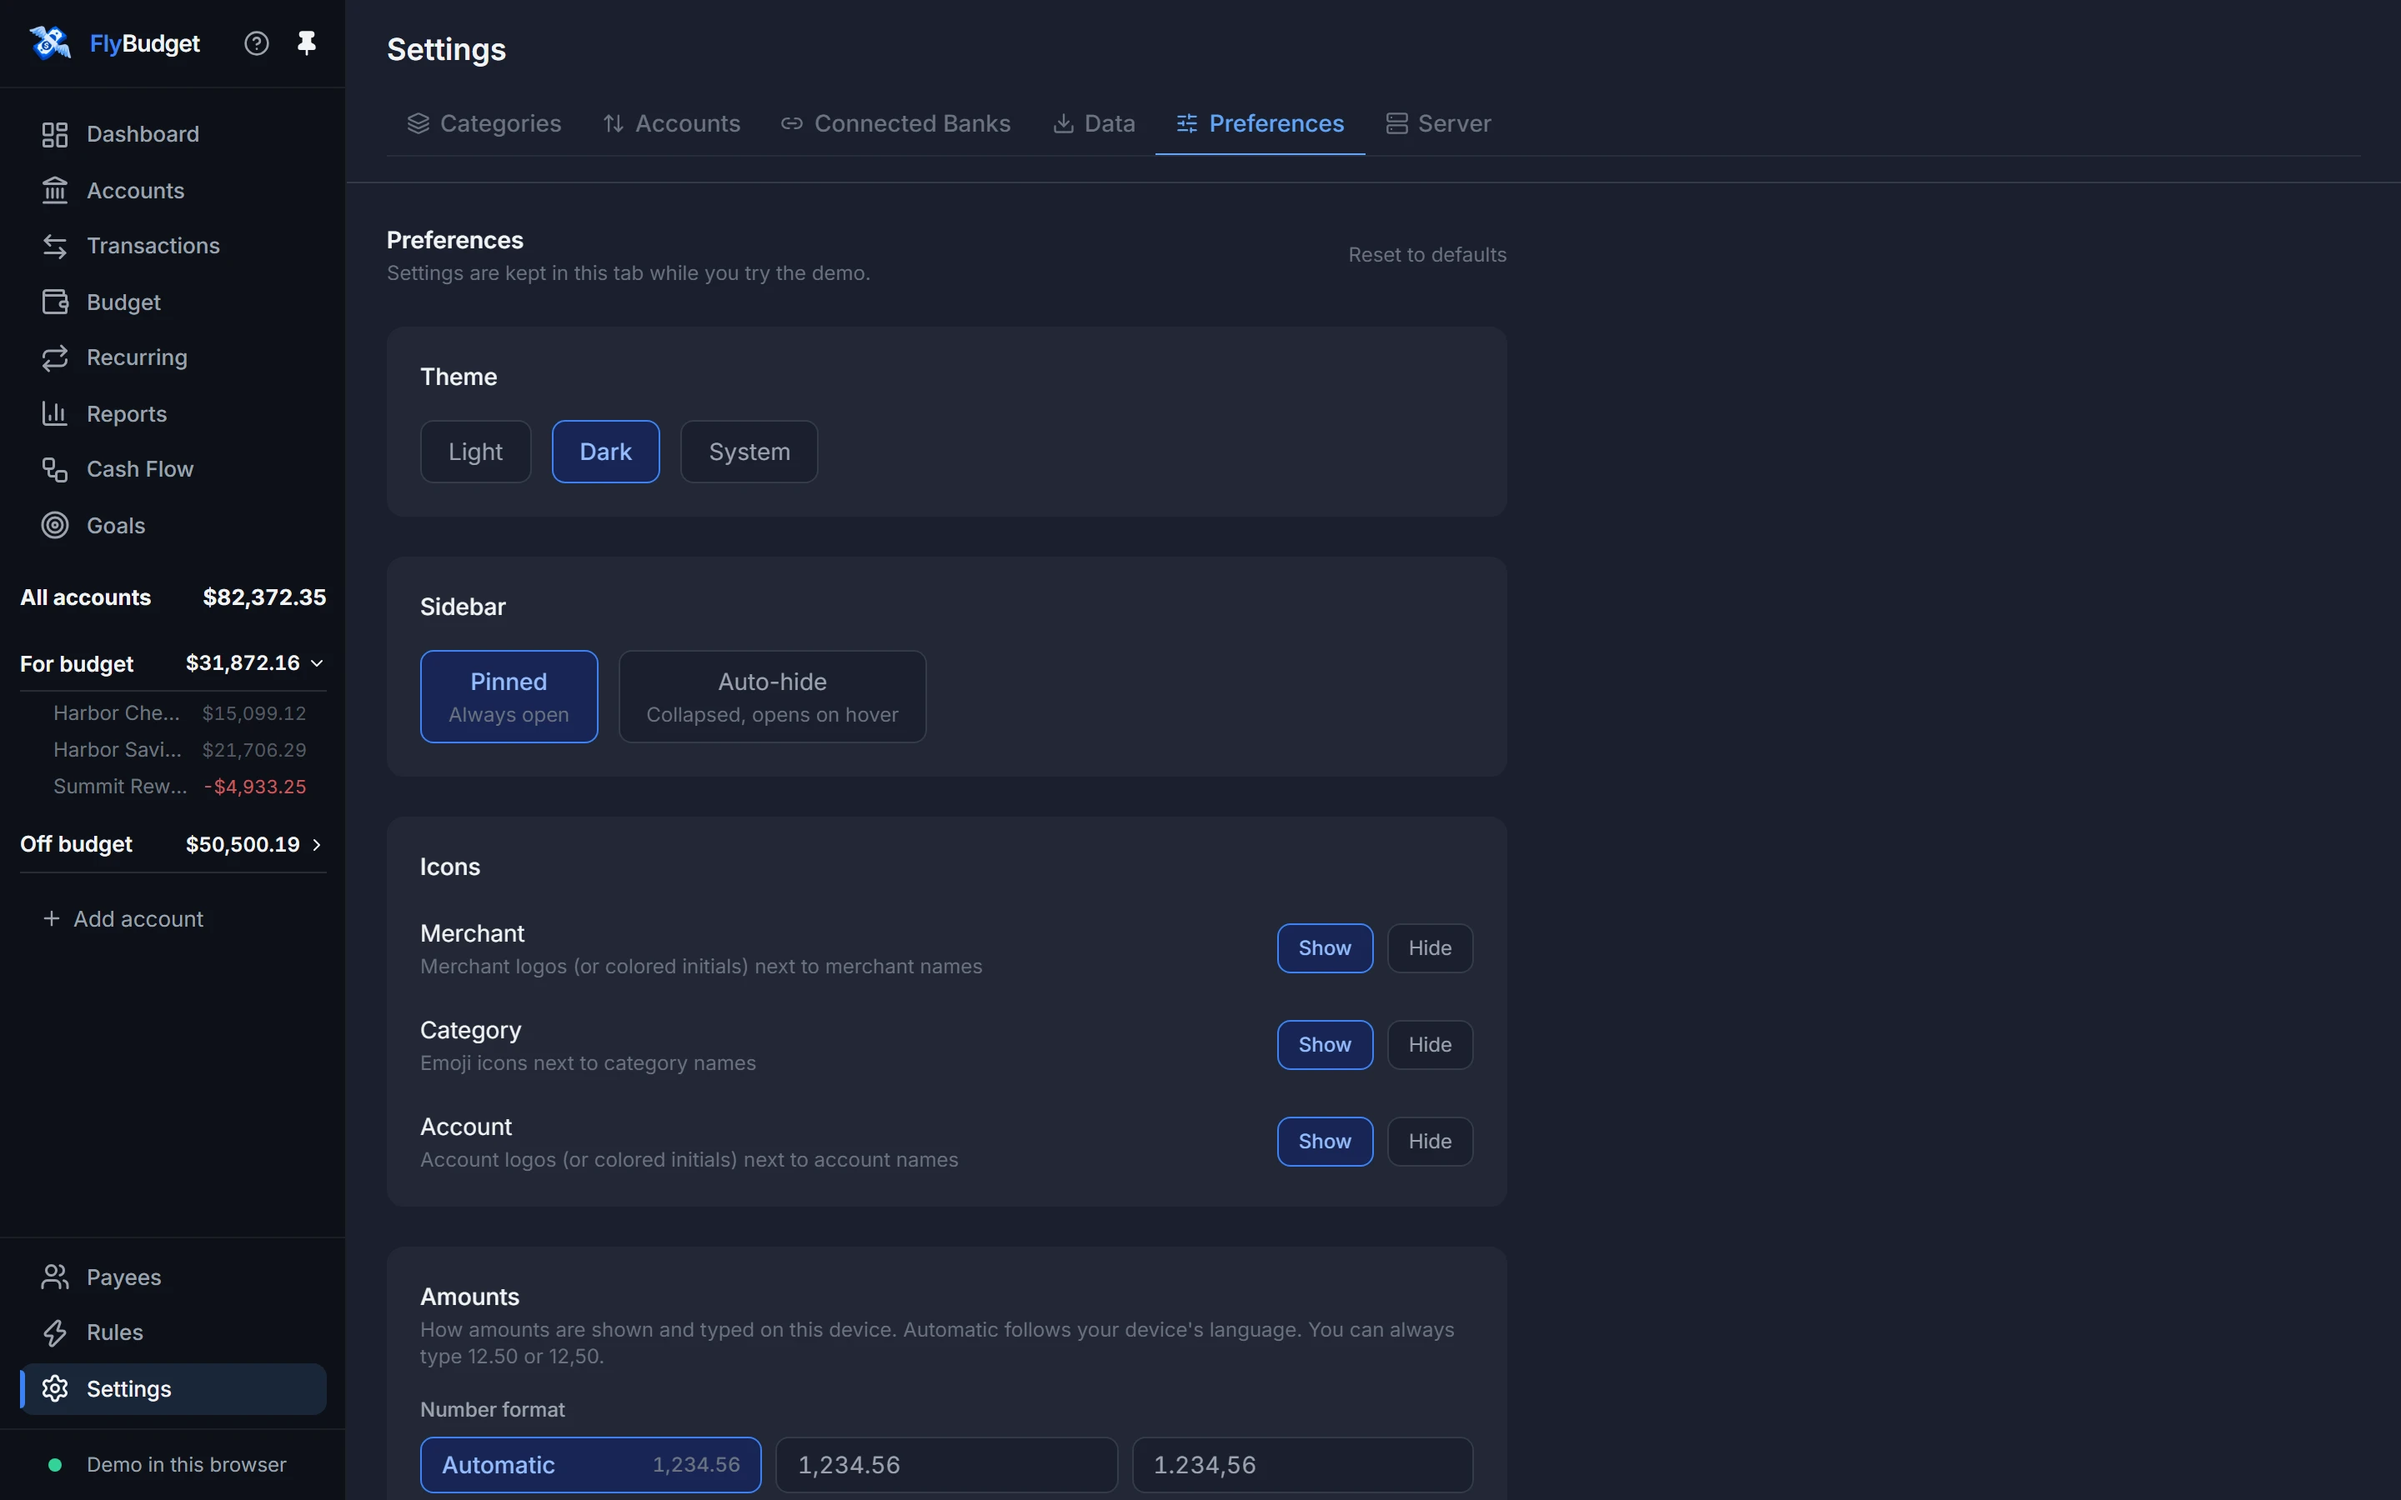
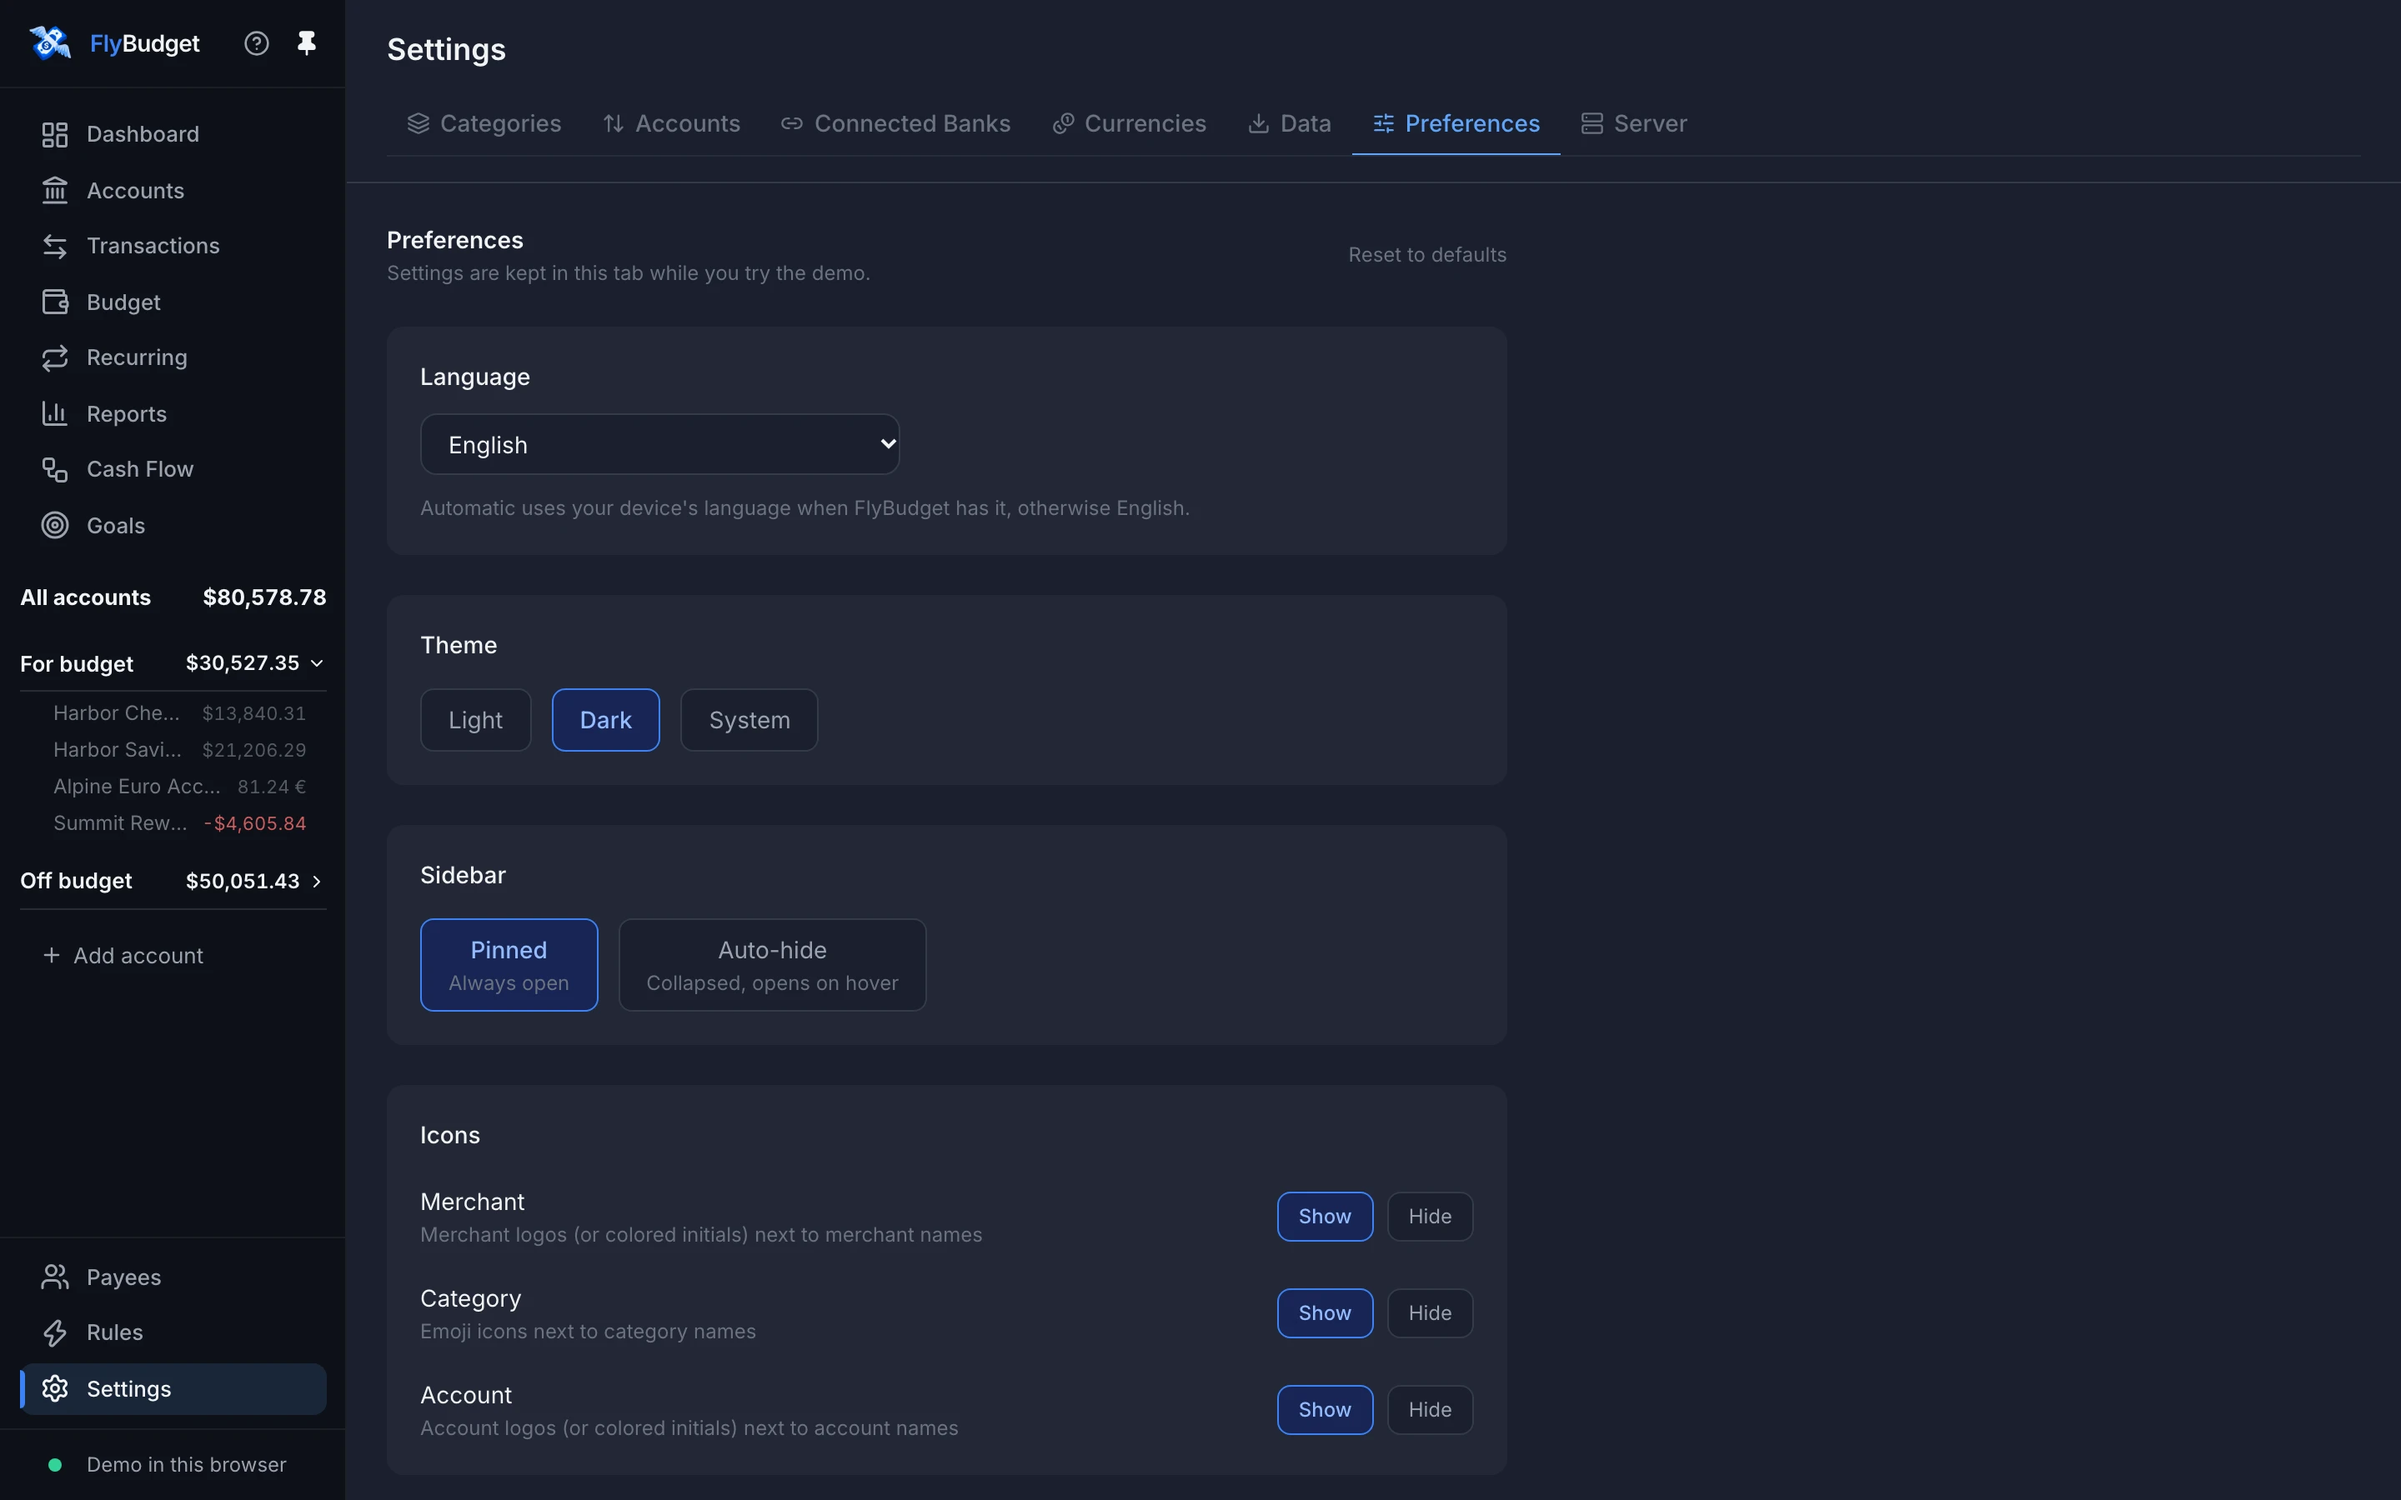
feat(i18n): show the Language setting, with Automatic and English
Settings → Preferences shows the Language row now instead of once there's
a second language, so people can see the setting exists: Automatic
(English) and English for now. The user guide lists it, with a new
screenshot of the Preferences tab.

diff --git a/e2e/tests/settings.spec.ts b/e2e/tests/settings.spec.ts
@@ -264,13 +264,13 @@ test('settings link to the license and the source code', async ({ page, api }) =
 test.describe('language on a German device', () => {
   test.use({ locale: 'de-DE' });
 
-  test('a new install stays in English while that is the only language', async ({ page, api }) => {
+  test('a new install is in English, the only language so far', async ({ page, api }) => {
     await api.createAccount('Girokonto');
     await open(page, '/settings?tab=preferences');
-    await expect(page.getByRole('heading', { name: 'Settings' })).toBeVisible();
     await expect(page.locator('html')).toHaveAttribute('lang', 'en');
-    // Nothing to choose from yet
-    await expect(page.getByRole('combobox', { name: 'Language' })).toHaveCount(0);
+    const language = page.getByRole('combobox', { name: 'Language' });
+    await expect(language).toHaveValue('auto');
+    await expect(language.getByRole('option')).toHaveText(['Automatic (English)', 'English']);
   });
 });
 

diff --git a/client/src/components/settings/PreferencesPanel.tsx b/client/src/components/settings/PreferencesPanel.tsx
@@ -58,13 +58,12 @@ const choiceClass = (selected: boolean) =>
 // new element: this puts the focus back on it
 let refocusLanguage = false;
 
-/** Only when there's more than one language to choose from */
+/** Automatic (the device's language when FlyBudget has it), or one of FlyBudget's languages */
 function LanguageSetting() {
   const { t } = useTranslation();
   const language = usePreferencesStore((s) => s.language);
   const setLanguage = usePreferencesStore((s) => s.setLanguage);
   const languages = availableLanguages();
-  if (languages.length < 2) return null;
   const automatic = languageInfo(resolveLanguage('auto', deviceLanguages())).name;
 
   return (

diff --git a/AGENTS.md b/AGENTS.md
@@ -236,7 +236,7 @@ The website serves the real app at `/demo/` with a sample budget and no server: 
 - Whole sentences only: one key per variant with values (`{{name}}`), never a sentence put together from pieces. Counts are plurals (`key_one`/`key_other` with `{{count, number}}`, `t(key, { count })`). Rich text is `<Trans components={{ … }}>` with named tags; never name a tag after an HTML element that can't hold content (`link`, `source`, `input`, …): its text is dropped.
 - Brand names, CSV headers, file names and data (names, server errors) stay as they are. Put `// i18n-ignore` on the line above anything the checker flags that isn't text.
 - `npm run check:i18n` (`client/scripts/check-i18n.mjs`) fails on UI text written in the code instead of en.json and checks en.json (unused keys, plural pairs, tags); `-- --list` shows each finding, `-- --loose` also lists strings that might be text.
-- Languages are registered in `i18n/languages.ts`. `resolveLanguage` picks the saved choice, else the first device language that's available, else English (preference `language`, default `auto`; installs that had saved preferences before it stay English, ones that never saved any get `auto`). The Language row in Settings → Preferences appears once there's more than one. A language change remounts the app (`LanguageRoot`), so memoized labels follow. date-fns gets the language for month and day names (`applyLanguage`; weeks still start on Sunday); amounts keep their own format setting.
+- Languages are registered in `i18n/languages.ts`. `resolveLanguage` picks the saved choice, else the first device language that's available, else English (preference `language`, default `auto`; installs that had saved preferences before it stay English, ones that never saved any get `auto`). The Language row in Settings → Preferences lists Automatic and each language. A language change remounts the app (`LanguageRoot`), so memoized labels follow. date-fns gets the language for month and day names (`applyLanguage`; weeks still start on Sunday); amounts keep their own format setting.
 - The dev server (and builds with `VITE_I18N_PSEUDO=1`) has a test language, Pseudo (en-XA), that accents and lengthens every text: text that isn't stretched isn't translated, and text that gets cut off won't fit in a longer language.
 
 ### Pages and routes

diff --git a/CLAUDE.md b/CLAUDE.md
@@ -236,7 +236,7 @@ The website serves the real app at `/demo/` with a sample budget and no server: 
 - Whole sentences only: one key per variant with values (`{{name}}`), never a sentence put together from pieces. Counts are plurals (`key_one`/`key_other` with `{{count, number}}`, `t(key, { count })`). Rich text is `<Trans components={{ … }}>` with named tags; never name a tag after an HTML element that can't hold content (`link`, `source`, `input`, …): its text is dropped.
 - Brand names, CSV headers, file names and data (names, server errors) stay as they are. Put `// i18n-ignore` on the line above anything the checker flags that isn't text.
 - `npm run check:i18n` (`client/scripts/check-i18n.mjs`) fails on UI text written in the code instead of en.json and checks en.json (unused keys, plural pairs, tags); `-- --list` shows each finding, `-- --loose` also lists strings that might be text.
-- Languages are registered in `i18n/languages.ts`. `resolveLanguage` picks the saved choice, else the first device language that's available, else English (preference `language`, default `auto`; installs that had saved preferences before it stay English, ones that never saved any get `auto`). The Language row in Settings → Preferences appears once there's more than one. A language change remounts the app (`LanguageRoot`), so memoized labels follow. date-fns gets the language for month and day names (`applyLanguage`; weeks still start on Sunday); amounts keep their own format setting.
+- Languages are registered in `i18n/languages.ts`. `resolveLanguage` picks the saved choice, else the first device language that's available, else English (preference `language`, default `auto`; installs that had saved preferences before it stay English, ones that never saved any get `auto`). The Language row in Settings → Preferences lists Automatic and each language. A language change remounts the app (`LanguageRoot`), so memoized labels follow. date-fns gets the language for month and day names (`applyLanguage`; weeks still start on Sunday); amounts keep their own format setting.
 - The dev server (and builds with `VITE_I18N_PSEUDO=1`) has a test language, Pseudo (en-XA), that accents and lengthens every text: text that isn't stretched isn't translated, and text that gets cut off won't fit in a longer language.
 
 ### Pages and routes
